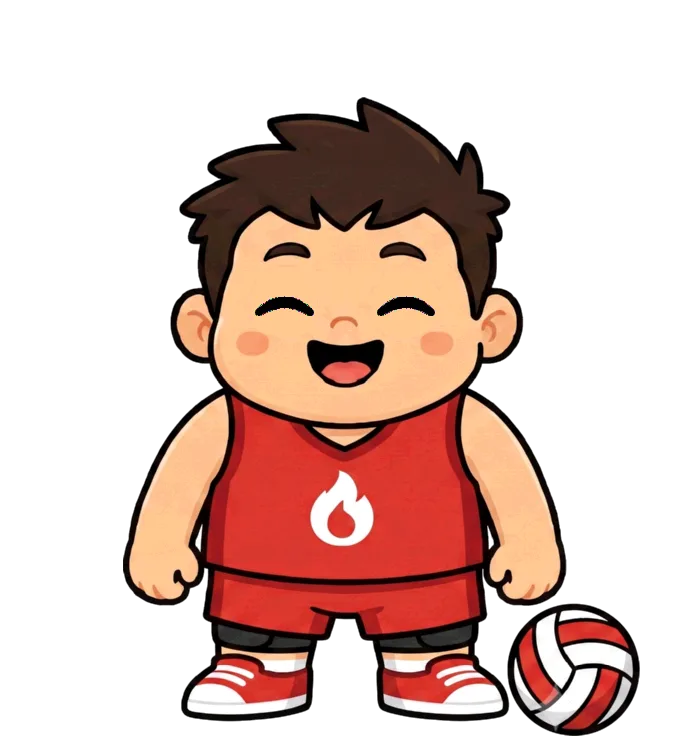
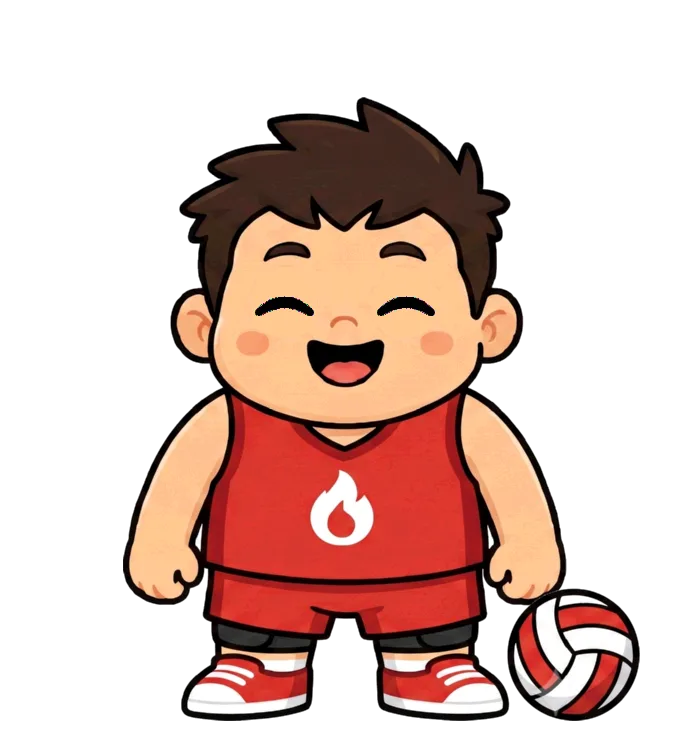
Entra a arte de Remo e objetos soltos assentam na linha do chao
O remo teve tres versoes e a primeira era a boa: alca e corrente soltas no
chao, longe das maos. Ela tinha sido recusada por um motivo que deixou de
existir -- o pipeline apagava objeto solto, o que ja foi resolvido no
commit anterior. As duas tentativas seguintes encostaram o equipamento no
corpo e pioraram: a 2a saiu com duas barras cruzando as pernas, a 3a com
a alca atravessando a perna e passando na frente do tenis, e nas duas as
maos voltaram a segurar.

O unico defeito real da 1a era a corrente descer ~30px abaixo da sola, o
que fazia a arte precisar de 449px de canvas abaixo dos olhos contra 435
disponiveis. Em vez de pedir uma 4a imagem, isso virou um passo do
pipeline.

seatDetachedObjects: sobe cada objeto solto ate a base dele coincidir com
a base do personagem. Resolve duas coisas de uma vez -- o estouro de
canvas, e o alinhamento com a sombra eliptica do site, que e desenhada na
linha dos pes; objeto pendurado abaixo dela apareceria flutuando fora do
proprio chao. Nunca desce nada: objeto acima da linha (bola no ar,
prancha encostada) e intencional.

Efeito medido regerando as 25 artes: so remo e volei mudaram. A bola do
volei estava um pouco abaixo dos pes e agora assenta junto com eles; as
outras 23 sairam identicas.

Remo passa a ter visual proprio. O eliptico continua no visual de Cardio,
porque camiseta, toalha e garrafinha e literalmente o que se veste num
eliptico.

Fica registrado no MASCOTE-PROMPT.md que pedir equipamento encostado no
[…]

diff --git a/mascote.js b/mascote.js
@@ -50,6 +50,9 @@ export const FANTASIAS_POR_EXERCICIO = {
   // debaixo do braço — quem faz pilates percebe que está vestido de outra coisa.
   Pilates: 'pilates',
   'Spinning (bike indoor)': 'spinning',
+  // O elíptico fica no visual de Cardio: camiseta, toalha e garrafinha é
+  // literalmente o que se veste num elíptico. O remo tem gesto próprio.
+  'Remo (ergômetro) moderado': 'remo',
   'Pular corda (moderado)': 'pularcorda',
   'Boxe (treino/sparring)': 'boxe',
   'Muay Thai / Kickboxing': 'muaythai',
@@ -130,6 +133,7 @@ export const DESCRICOES_VISUAL = {
   cardio: 'Caloricio de camiseta esportiva e toalha no pescoço, com uma garrafinha de água ao lado',
   bemestar: 'Caloricio com um tapete de yoga enrolado sob o braço',
   pilates: 'Caloricio de roupa justa e meias antiderrapantes, com um anel de pilates na mão',
+  remo: 'Caloricio de macaquinho de remo e munhequeiras, com a alça do ergômetro no chão ao lado',
   gpt: 'Caloricio de faixa na cabeça e moletom, pronto pro treino',
   neutro: 'Caloricio te esperando começar',
 };

diff --git a/MASCOTE-PROMPT.md b/MASCOTE-PROMPT.md
@@ -253,36 +253,25 @@ crossed over the chest, closed by a black belt tied in a knot at the waist,
 matching white gi pants that end above the ankles, and bare feet.
 ```
 
-### Remo — 3ª tentativa: a corrente não pode passar abaixo dos pés
+### Remo — resolvido com a 1ª tentativa, sem gerar de novo
 
-**Situação:** a 1ª tentativa (alça solta no chão) era a certa — ela só foi
-recusada porque o pipeline apagava objeto solto, o que já está resolvido (2d). A
-2ª tentativa, com a alça encostando no corpo, embolou: saíram duas barras pretas
-cruzando as pernas e as mãos voltaram a segurar. **Voltamos para a 1ª**, que já
-está em `img/sources/caloricio-remo.png`.
+Foram três versões, e **a primeira era a boa**: alça e corrente soltas no chão,
+longe das mãos. Ela tinha sido recusada por um motivo que deixou de existir
+(o pipeline apagava objeto solto — ver 2d). As outras duas tentaram encostar o
+equipamento no corpo e pioraram: a 2ª saiu com duas barras pretas cruzando as
+pernas, a 3ª com a alça atravessando a perna e passando na frente do tênis. Nas
+duas as mãos voltaram a segurar, que era exatamente o que queríamos evitar.
 
-Falta pouco: nela a corrente se estende **abaixo da linha dos pés**, e aí o
-personagem precisa de 449px de canvas abaixo dos olhos, contra 435 disponíveis.
-São 14px — só o rabo da corrente. Peça de novo com essa única restrição a mais:
+O único defeito real da 1ª — a corrente descendo abaixo da sola — virou um passo
+do pipeline (`seatDetachedObjects`) em vez de mais um pedido: objeto solto
+desenhado abaixo dos pés é subido até a linha do chão. Isso resolve o estouro de
+canvas e também alinha o objeto com a sombra do site, que fica na linha dos pés.
+Nunca desce nada — objeto acima da linha (bola no ar, prancha encostada) é
+intencional.
 
-```
-Same character, same rules as before. New outfit: indoor rowing (ergometer).
-
-Both hands empty and relaxed at his sides — he does NOT hold the handle. Do not
-draw any bar crossing his fists or his legs. Exactly ONE handle in the image per
-character.
-
-Outfit worn on the body: a sleeveless rowing singlet (a snug one-piece athletic
-top) with the flame logo, short compression shorts, and a sweatband on one wrist.
-
-Equipment: the black handle of a rowing machine with a short chain, lying flat
-on the ground next to his foot, separate from his body and not touching it.
-
-CRITICAL FRAMING: the handle and the chain must sit ON THE SAME GROUND LINE as
-his feet. Nothing may extend below the level of the soles of his shoes — the
-lowest point of the whole drawing must be his shoes, not the chain. Keep the
-chain short and beside the shoe, never trailing down past it.
-```
+**Lição para os próximos pedidos:** peça o equipamento **solto no chão, ao lado
+do pé**. Encostar no corpo era uma exigência da limitação antiga e hoje só
+atrapalha, porque leva o modelo a desenhar a mão segurando.
 
 ### (histórico) Remo — 2ª tentativa: a alça no chão era apagada pelo pipeline
 
@@ -446,7 +435,7 @@ e 12 novos.
 | `natacao` | natação leve, moderada e vigorosa |
 | `musculacao` | musculação leve e moderada/vigorosa |
 | `esportes` | futebol recreativo e competitivo |
-| `cardio` | elíptico e remo (a arte própria do remo não vingou — ver 2c) |
+| `cardio` | elíptico (camiseta, toalha e garrafinha é o que se veste num elíptico) |
 | `lutas` | jiu-jitsu |
 | `funcional` | funcional e crossfit |
 | `bemestar` | yoga |
